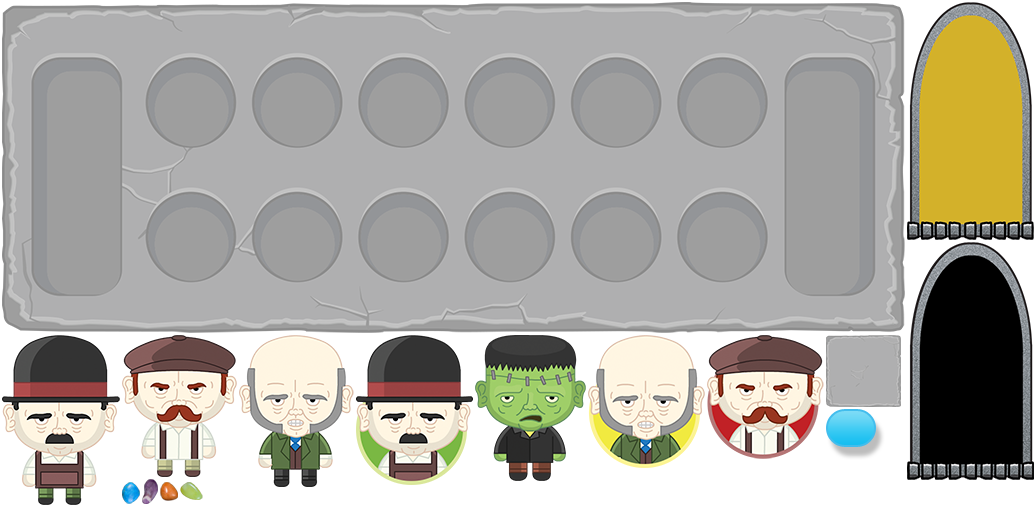
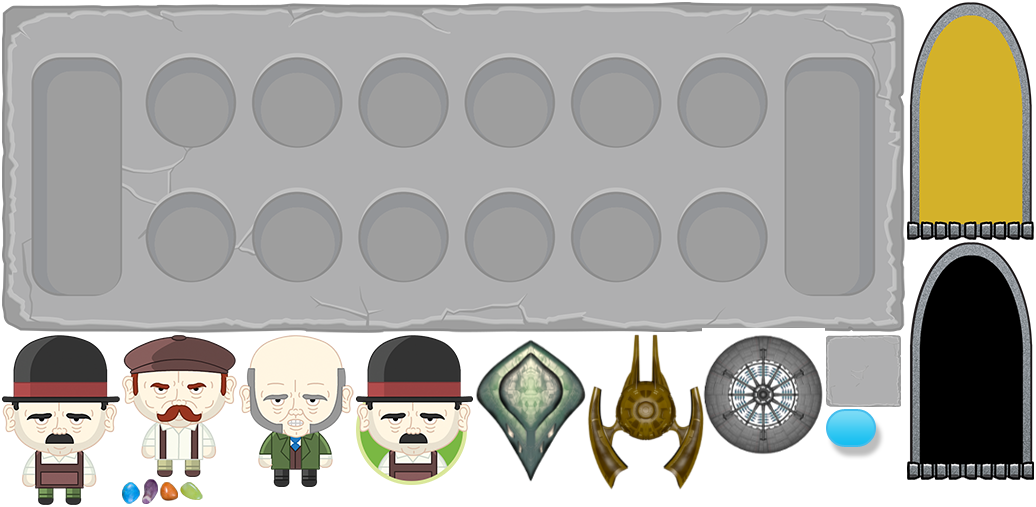
Different enemies background move

Changed region(s): [[0.4324, 0.6213, 0.8031, 0.9763]]

diff --git a/Game/spacespartans.js b/Game/spacespartans.js
@@ -5,6 +5,8 @@ const PUCK_SPEED = 5;
 const PADDLE_HITS_FOR_NEW_LEVEL = 5;
 const SCORE_BOARD_HEIGHT = 50;
 
+const FPS = 60;
+
 
 var spaceShip, enemy001, enemy002, enemy003, bullet;
 
@@ -28,10 +30,18 @@ var laserKeyDown = false;
 var bombKeyDown = false;
 
 var shipSpeed = 3;
+var lightenemyspeed = 1;
+var heavyenemyspeed = .3;
+
+var lightenemyinterval = 2000;
+var heavyenemyinterval = 13000;
+
 
 var spaceShipLasers = new createjs.Container();
 var spaceShipRockets = new createjs.Container();
 var enemyLasers = [];
+
+var enemyShips = new createjs.Container();
 
 var spriteSheet;
 
@@ -42,6 +52,7 @@ var combo = 0;
 var lives = 5;
 var score = 0;
 var level = 0;
+var back_001;
 
 var gameRunning = true;
 
@@ -57,15 +68,13 @@ function init() {
     loadSpriteSheet();
     newGame();
 }
-
 function newGame() {
-    stage.update();
+    //stage.update();
     buildMessageBoard();
     setControls();
     newLevel();
     startGame();
-    stage.addChild(spaceShipLasers);
-    stage.addChild(spaceShipRockets);
+
     stage.removeChild(startText);
 }
 
@@ -76,7 +85,7 @@ function loadAssets(){
     queue.on("fileload", handleFileLoad);
     queue.on("complete", loadComplete);
     queue.load();
-    console.log("Assets Loaded...")
+    console.log("Assets Loaded...");
 }
 function handleFileLoad(event) {
     if(event.item.id == "spaceShip-001"){
@@ -97,6 +106,10 @@ function handleFileLoad(event) {
     if(event.item.id == "laser-001"){
         laser_001 = new createjs.Bitmap(event.result);
     }
+    if(event.item.id == "back-001"){
+        back_001 = new createjs.Bitmap(event.result);
+        back_001.y = stage.canvas.height - back_001.getBounds().height;
+    }
 }
 function loadComplete(event){
     startText = new createjs.Text("Click To Start", "50px Arial", "#FFFFFF");
@@ -104,11 +117,13 @@ function loadComplete(event){
     startText.y = canvas.height /2 - startText.getMeasuredHeight()/2;
     stage.addChild(startText);
     stage.update();
-    stage.on("stagemousedown",newGame,null,false);
+    stage.on("stagemousedown",newGame,null,true);
 }
 
 // Game and Scene Functions
-function buildScene(){}
+function buildScene(){
+
+}
 function buildMessageBoard() {
     board = new createjs.Shape();
     board.graphics.beginFill('#333');
@@ -160,7 +175,7 @@ function resetGame() {
     createjs.Ticker.setPaused(false);
 }
 function startGame() {
-    createjs.Ticker.setFPS(60);
+    createjs.Ticker.setFPS(FPS);
     createjs.Ticker.addEventListener("tick", function (e) {
         if (!e.paused) {
             runGame();
@@ -170,7 +185,6 @@ function startGame() {
 }
 function runGame() {
     update();
-    render();
     evalGame();
 }
 
@@ -238,11 +252,18 @@ function handleKeyUp(e) {
 }
 
 
-function buildShip(){
-    console.log(spaceShip);
-    stage.addChild(spaceShip);
+function buildEnemyShipLight(){
+    enemyShip = new Enemy("light");
+    enemyShip.x = getRandomInt(0, stage.canvas.width - enemyShip.getBounds().width);
+    enemyShip.y = 0;
+    enemyShips.addChild(enemyShip);
 }
-function buildEnemies(){}
+function buildEnemyShipHeavy(){
+    enemyShip = new Enemy("heavy");
+    enemyShip.x = getRandomInt(0, stage.canvas.width - enemyShip.getBounds().width);
+    enemyShip.y = 0;
+    enemyShips.addChild(enemyShip);
+}
 function buildBoss(){}
 
 
@@ -254,7 +275,6 @@ function buildLaser(){
 
     spaceShipLasers.addChild(laser);
 }
-
 function buildRocket(){
     rocket1 = new Rocket();
     rocket2 = new Rocket();
@@ -300,6 +320,7 @@ function update() {
     updateShip();
     updateLaser();
     updateRocket();
+    updateEnemies();
 
     /*updatePuck();
     checkPaddle();
@@ -338,36 +359,41 @@ function updateShip(){
         //fireLaser();
     }
 }
-function updateEnemies(){}
+function updateEnemies(){
+    for(var i = enemyShips.children.length - 1; i >= 0; --i){
+        if (enemyShips.children[i].y < stage.canvas.width && enemyShips.children[i].shouldDie == false){
+            enemyShips.children[i].move();
+            console.log("Enemy numbers: "+ enemyShips.children.length);
+        }
+        else{
+            enemyShips.removeChildAt(i);
+        }
+    }
+}
 function updateBoss(){}
+function updateBackground(){
+    // console.log(back_001.y);
+    if(back_001.y <=0){
+        back_001.y += .3;
+    }
+}
 
 function checkShip(){}
 function checkEnemies(){}
 function checkBoss(){}
 
 // Render Functions
-function render() {
-    /*paddle.x = paddle.nextX;
-    puck.x = puck.nextX;
-    puck.y = puck.nextY;
-    livesTxt.text = "lives: " + lives;
-    scoreTxt.text = "score: " + score;*/
-}
 function newLevel() {
-    buildShip();
-}
-function evalPuck() {
-    if (puck.y > paddle.y) {
-        puck.isAlive = false;
-    }
-    if (puck.y > canvas.height + 200) {
-        puck.y = bricks[0].y + bricks[0].height + 40;
-        puck.x = stage.canvas.width / 2;
-        puck.velx *= -1;
-        puck.isAlive = true;
-        combo = 0;
-        lives--;
-    }
+    stage.addChild(back_001);
+    stage.addChild(spaceShip);
+    stage.addChild(spaceShipLasers);
+    stage.addChild(spaceShipRockets);
+    stage.addChild(enemyShips);
+
+
+    setInterval('buildEnemyShipLight()', lightenemyinterval);
+    setInterval('buildEnemyShipHeavy()', heavyenemyinterval);
+    setInterval('updateBackground()', 50);
 }
 function evalGame() {
     /*if (lives < 0 || bricks[0].y > board.y) {
@@ -408,14 +434,47 @@ function Rocket() {
 Rocket.prototype = new createjs.Sprite();
 Rocket.prototype.Sprite_initialize = Rocket.prototype.initialize;
 Rocket.prototype.initialize = function () {
-    // console.log("initializing" + spriteSheet);
     this.Sprite_initialize(spriteSheet, "stone_2");
     this.paused = true;
 }
 Rocket.prototype.move = function (){
-    //console.log("moving...");
     this.y += this.speed;
 }
+
+// Enemy 001 Class
+function Enemy(enemytype) {
+    this.shouldDie = false;
+    switch (enemytype){
+        case "light":
+            this.sprite = "enemy-001";
+            this.speed = lightenemyspeed;
+            this.hp = 100;
+            break;
+        case "heavy":
+            this.sprite = "enemy-002";
+            this.speed = heavyenemyspeed;
+            this.hp = 300;
+            break;
+        case "boss":
+            this.sprite = "enemy-003";
+            this.hp = 1000;
+            this.speed = 0;
+            break;
+    }
+    this.initialize();
+
+}
+Enemy.prototype = new createjs.Sprite();
+Enemy.prototype.Sprite_initialize = Enemy.prototype.initialize;
+Enemy.prototype.initialize = function () {
+    this.Sprite_initialize(spriteSheet, this.sprite);
+    this.paused = true;
+}
+Enemy.prototype.move = function (){
+    this.y += this.speed;
+}
+
+
 
 
 
@@ -585,6 +644,9 @@ Rocket.prototype.move = function (){
  bricks = [];
  }*/
 
+function getRandomInt(min, max) {
+    return Math.floor(Math.random() * (max - min + 1)) + min;
+}
 
 function loadSpriteSheet() {
     var data = {
@@ -609,13 +671,13 @@ function loadSpriteSheet() {
         "animations": {
             "board": [0],
             "bubble": [1],
-            "chooseCPU1": [2],
-            "chooseCPU2": [3],
-            "chooseCPU3": [4],
+            "face": [2],
+            "enemy-001": [3],
+            "enemy-003": [4],
             "cpu1": [5],
             "cpu2": [6],
             "cpu3": [7],
-            "frank": [8],
+            "enemy-002": [8],
             "scoreBrick": [9],
             "stone_0": [10],
             "stone_1": [11],
